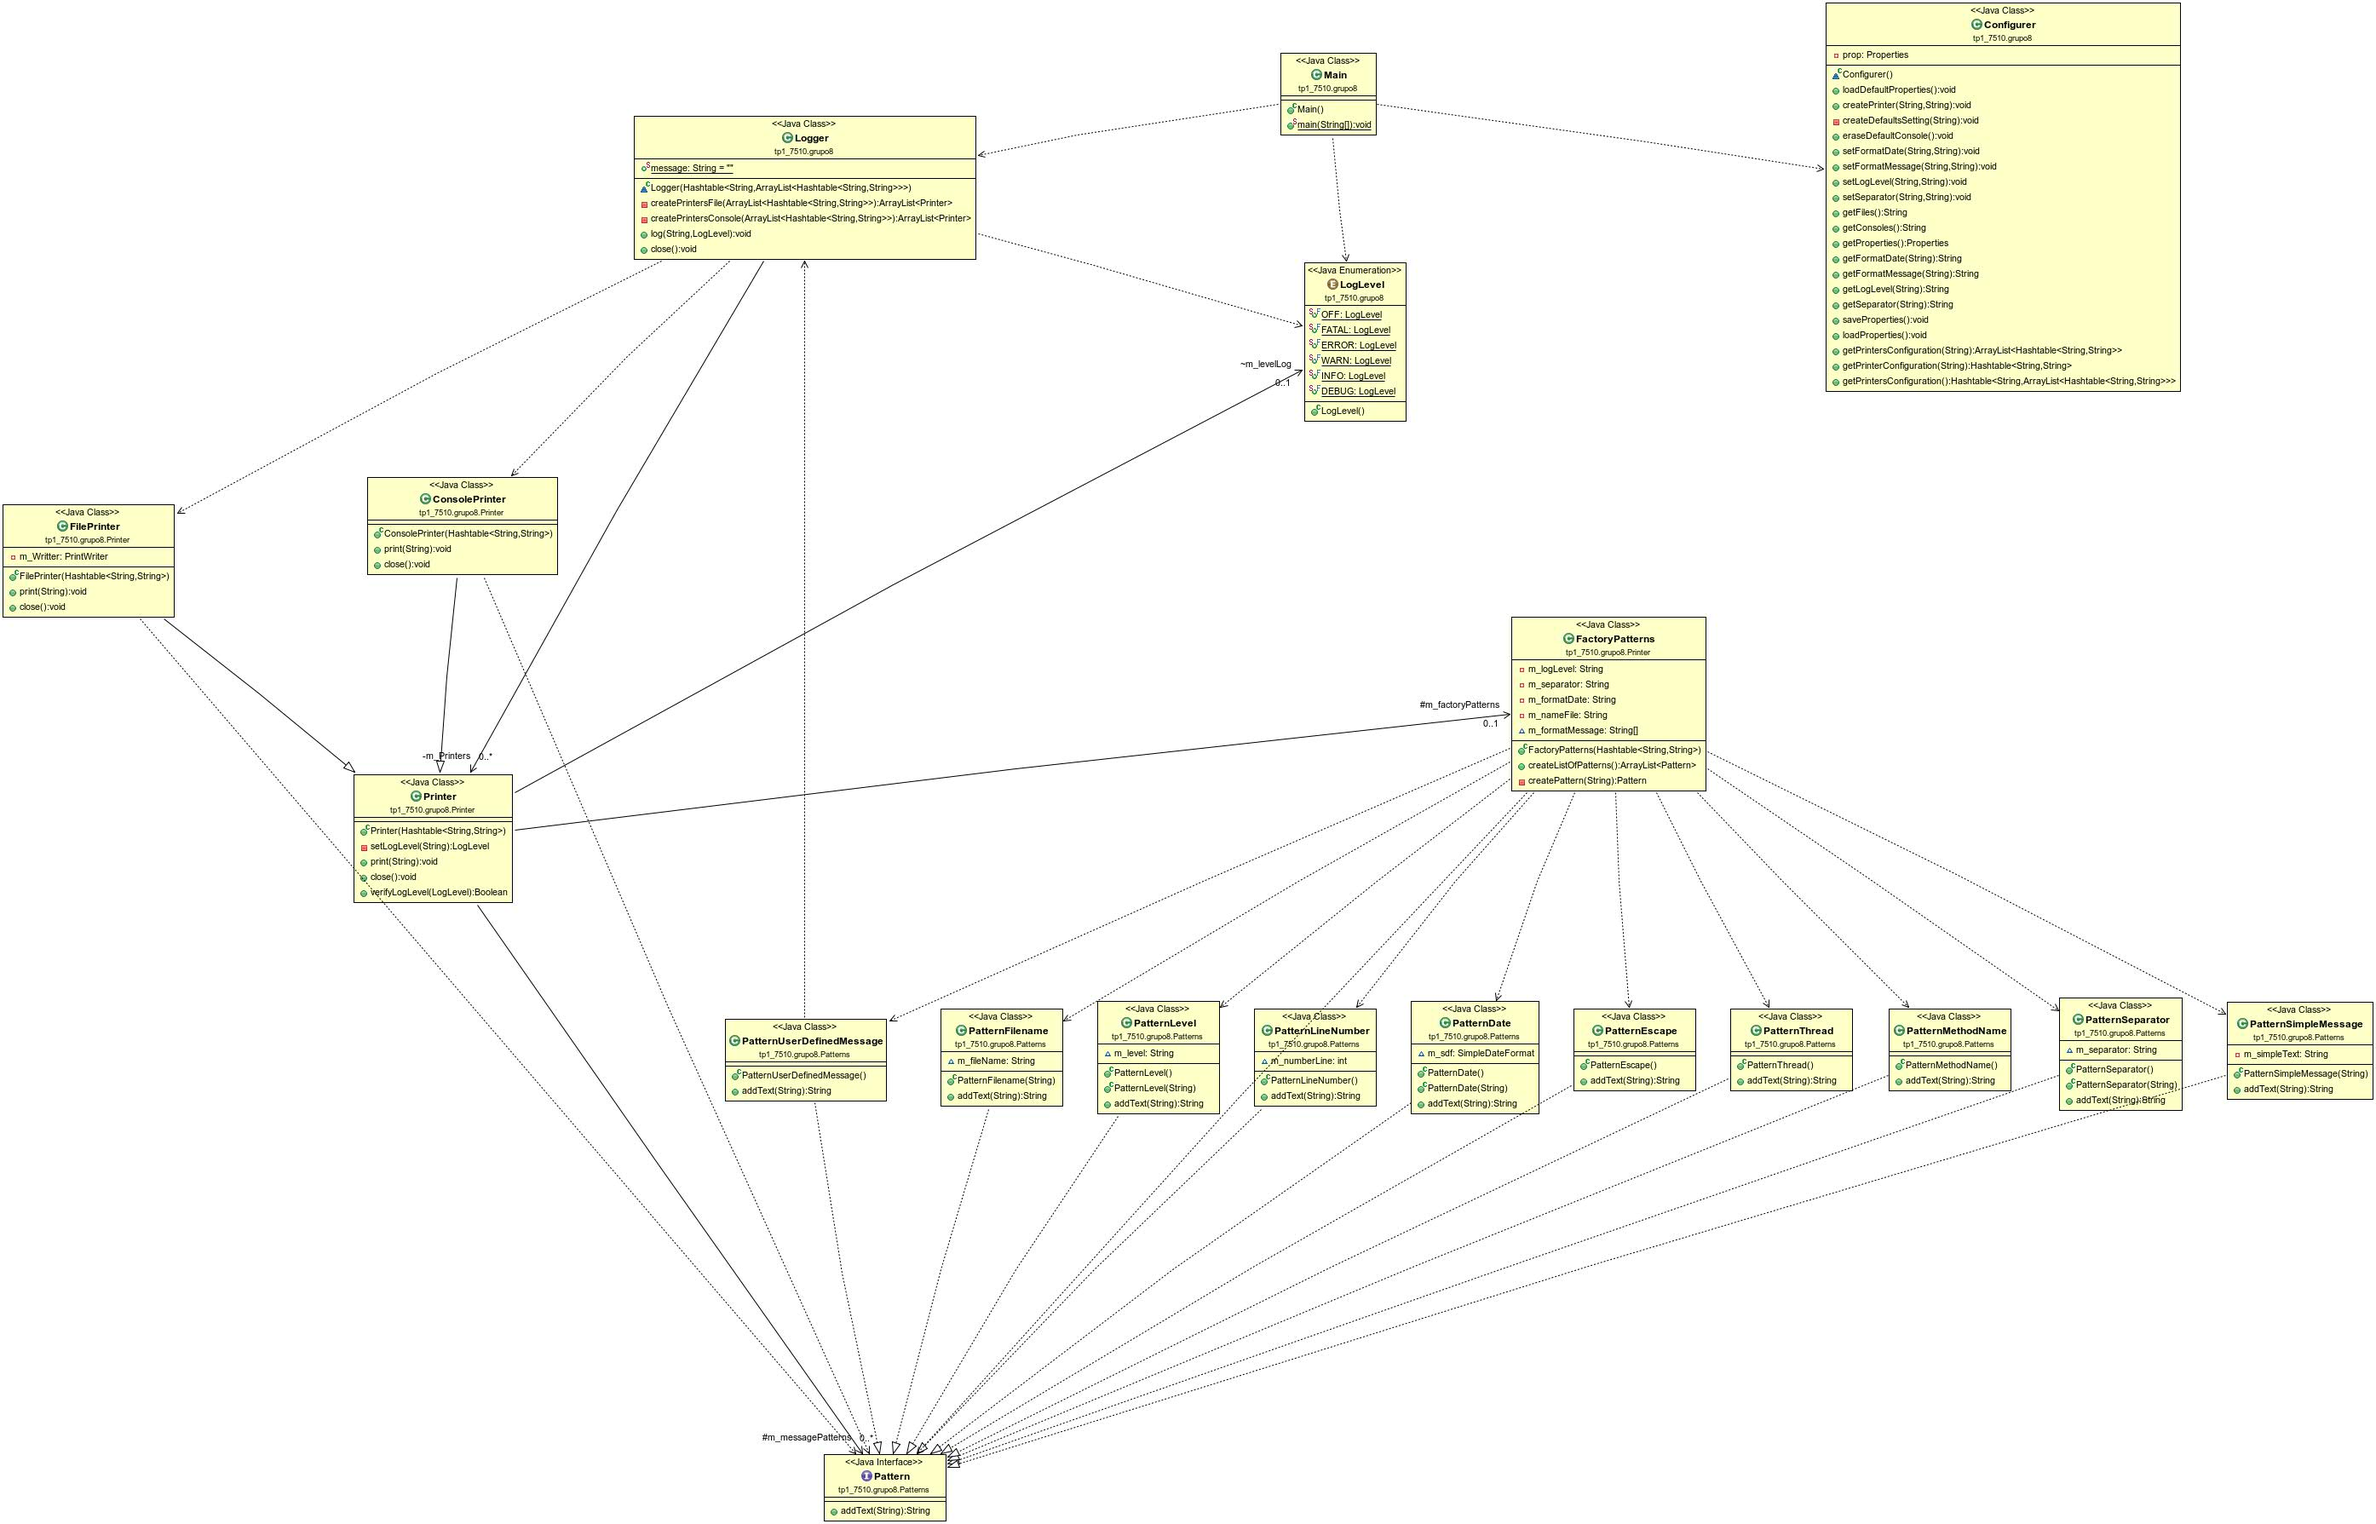
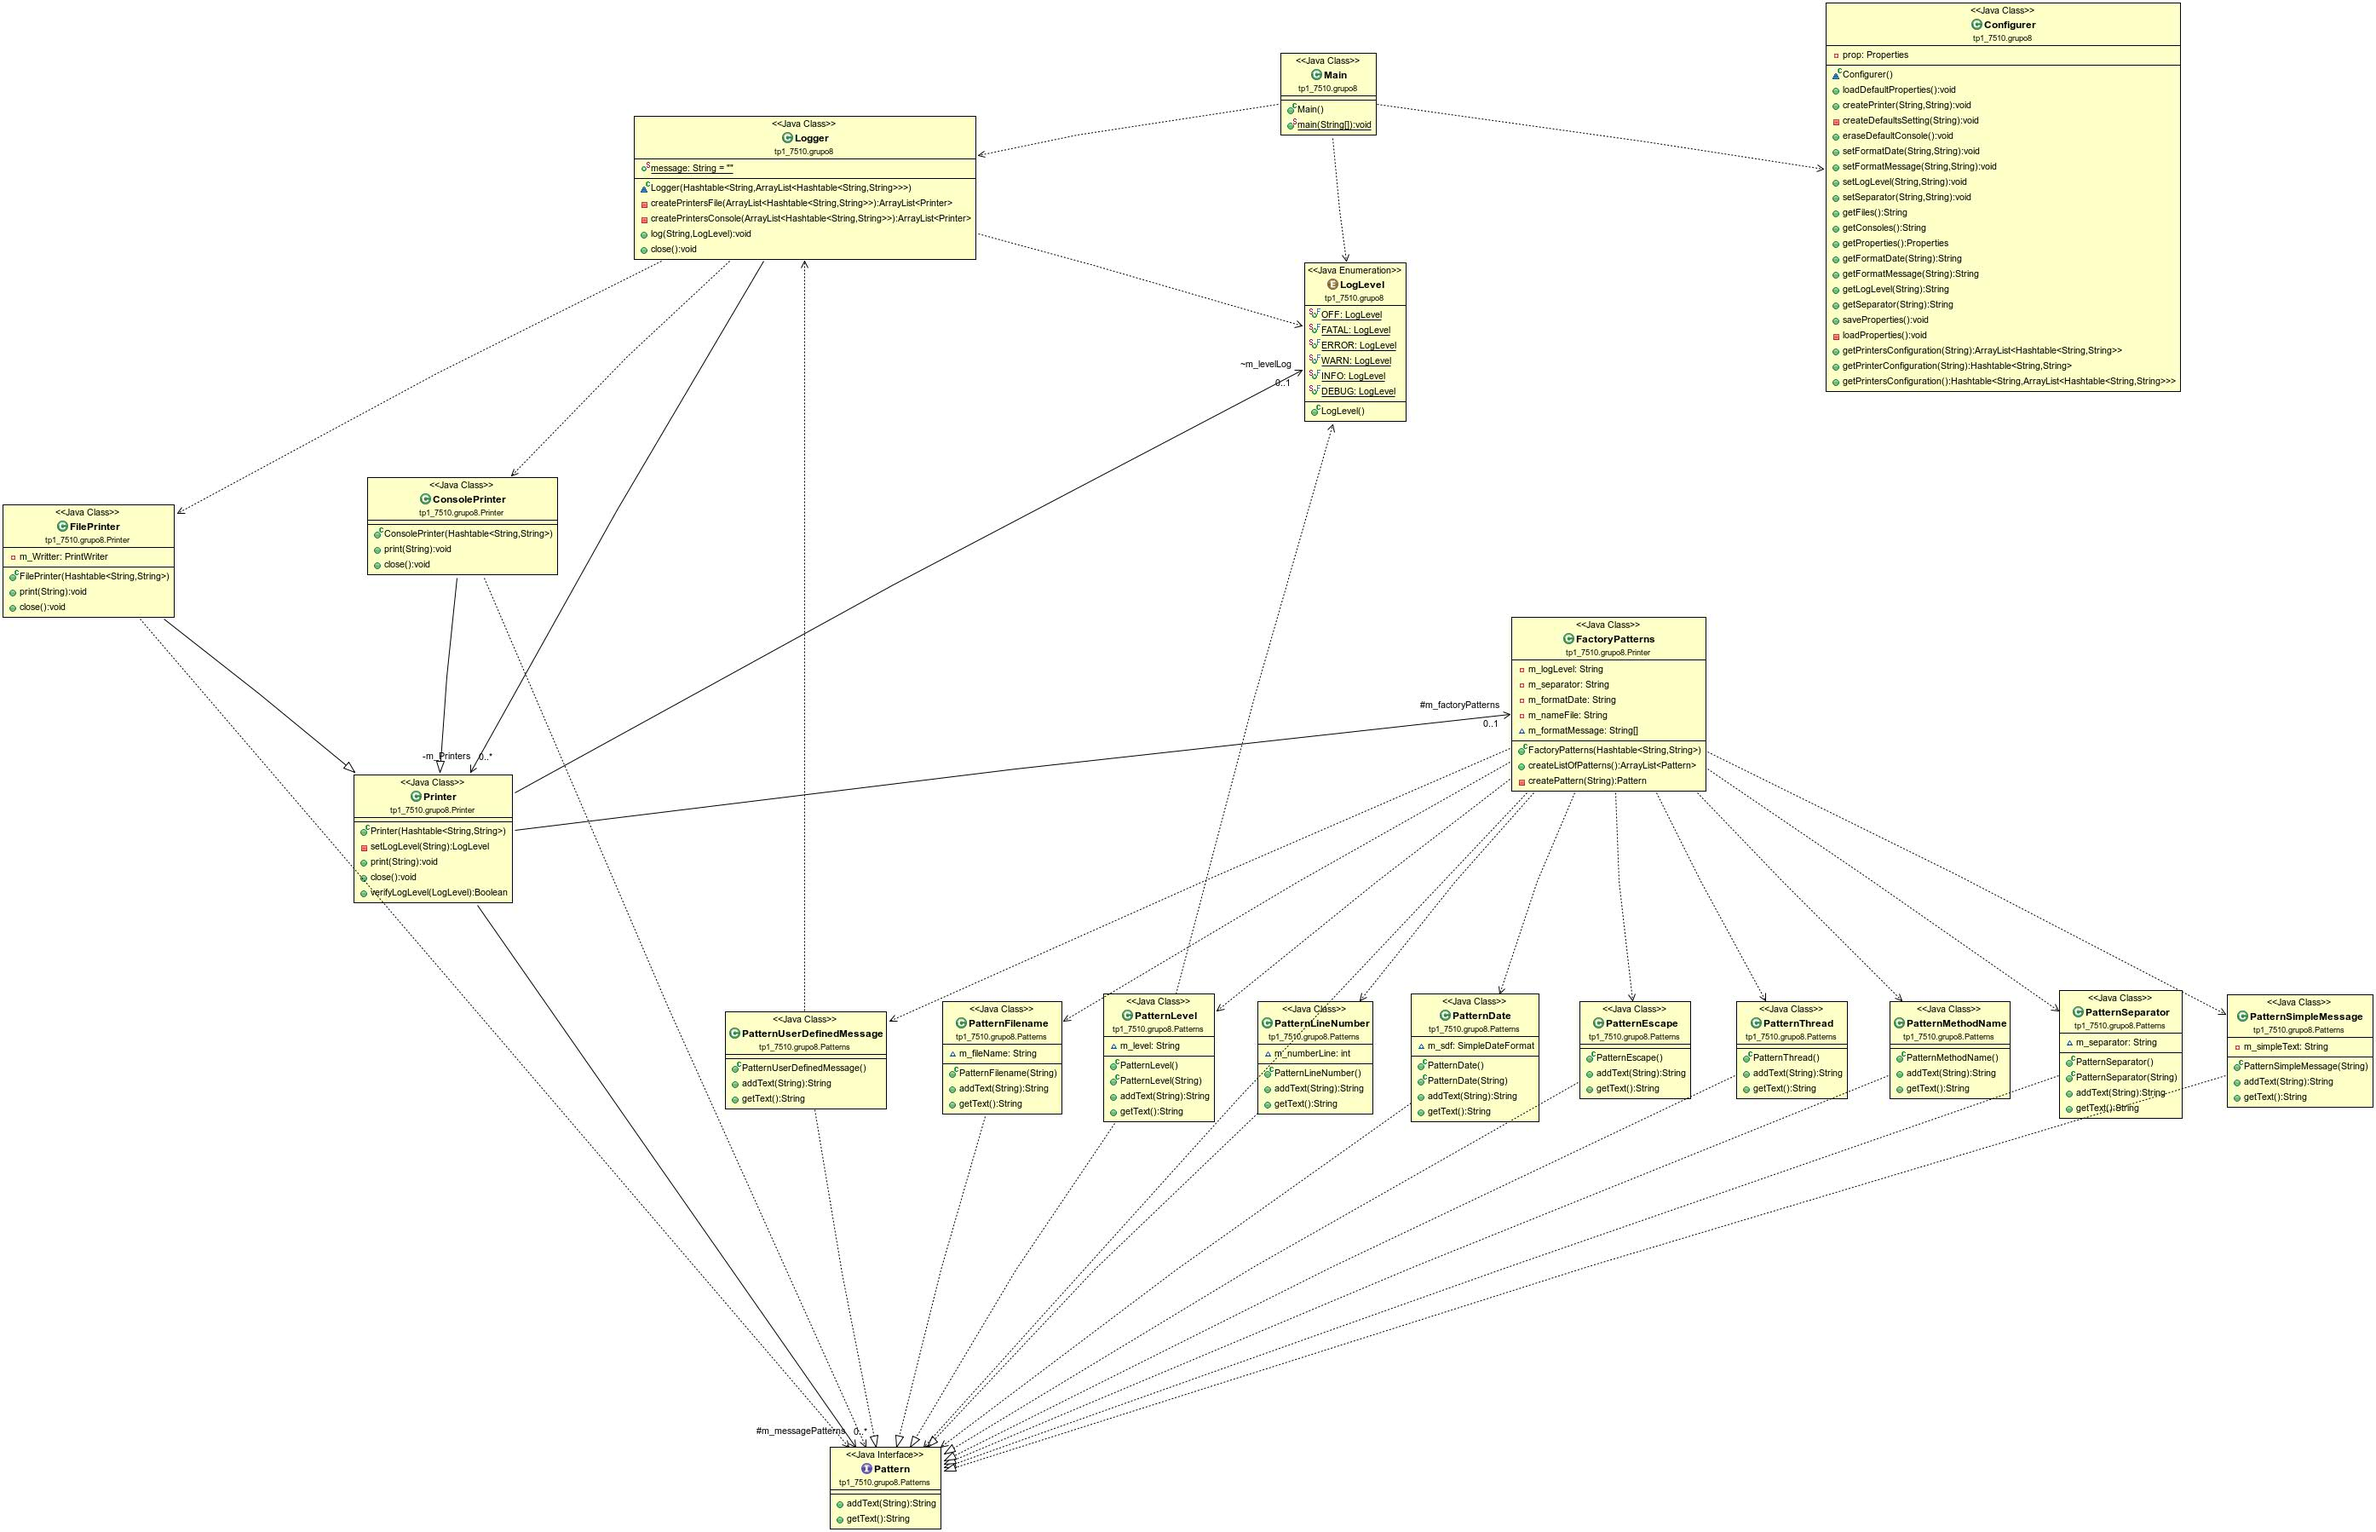
Agregado de test cases para la clase de patrones.

diff --git a/grupo8/src/test/java/tp1_7510/grupo8/TestPatterns.java b/grupo8/src/test/java/tp1_7510/grupo8/TestPatterns.java
@@ -20,48 +20,89 @@ import java.util.Date;
 public class TestPatterns extends TestCase {
 		
 	public void testPatternDate(){
+		
 		PatternDate patternDate	= new PatternDate();
+		PatternDate patternDateUD	= new PatternDate("10/10/2013");
 		String prueba = new SimpleDateFormat("dd/MM/yyyy").format(new Date());
 		
-		assertEquals(prueba.toString(), patternDate.addText(""));
-	
+		assertEquals(prueba.toString(), patternDate.getText());	
+		assertEquals("10/10/2013", patternDateUD.getText());
 	}
 	
 	public void testPatternEscape(){
-		PatternEscape patternEscape	= new PatternEscape();
 		
+		PatternEscape patternEscape	= new PatternEscape();
+				
+		assertEquals("%", patternEscape.addText(""));
+		assertEquals("%%", patternEscape.addText("%"));
 	}
 	
 	public void testPatternFilenamee(){
+		
 		PatternFilename patternFilename	= new PatternFilename("unArchivo.txt");
+		
+		assertEquals("unArchivo.txt", patternFilename.addText(""));
+		assertEquals("aaaunArchivo.txt", patternFilename.addText("aaa"));
 	}
 	
 	public void testPatternLevel(){
+		
 		PatternLevel patternLevel = new PatternLevel();
+		
+		assertEquals(LogLevel.DEBUG.toString(), patternLevel.addText(""));
 	}
 	
 	public void testPatternLineNumber(){
+		
 		PatternLineNumber patternLineNumber = new PatternLineNumber();
+		
+		assertEquals("linea 0", patternLineNumber.addText("linea "));
+		assertEquals("linea 1", patternLineNumber.addText("linea "));
+		assertEquals("linea 2", patternLineNumber.addText("linea "));		
 	}
 	
 	public void testPatternMethodName(){
+		
 		PatternMethodName patternMethodName	= new PatternMethodName();
+		
+		assertEquals("getText", patternMethodName.getText());		
 	}
 	
 	public void testPatternSeparator(){
+		
 		PatternSeparator patternSeparator = new PatternSeparator();
+		PatternSeparator patternSeparatorUD = new PatternSeparator("??");
+		
+		assertEquals("-", patternSeparator.getText());
+		assertEquals("??", patternSeparatorUD.getText());
+		assertEquals("=-", patternSeparator.addText("="));
+		assertEquals("AAA??", patternSeparatorUD.addText("AAA"));
 	}
 	
 	public void testPatternSimpleMessage(){
+		
 		PatternSimpleMessage patternSimpleMessage = new PatternSimpleMessage("Hola");
+		PatternSimpleMessage patternSimpleMessageUD = new PatternSimpleMessage();
+		
+		assertEquals("Hola", patternSimpleMessage.getText());
+		assertEquals("", patternSimpleMessageUD.getText());
 	}
 	
 	public void testPatternThread(){
+		
 		PatternThread patternThread = new PatternThread();
+		
+		assertEquals("main", patternThread.getText());
+		assertEquals("AAAAmain", patternThread.addText("AAAA"));
 	}
 	
 	public void testPatternUserDefinedMessage(){
+		
 		PatternUserDefinedMessage patternUserDefinedMessage = new PatternUserDefinedMessage();
+		
+		assertEquals("AAAA", patternUserDefinedMessage.addText("AAAA"));
+		
+		// TODO falta definir una prueba del log...
 	}
 
 }

diff --git a/grupo8/src/main/java/tp1_7510/grupo8/Logger.java b/grupo8/src/main/java/tp1_7510/grupo8/Logger.java
@@ -37,7 +37,7 @@ public class Logger {
 				printers.add( new FilePrinter(aFilePrinter) );
 			} catch (FileNotFoundException e) {
 				e.printStackTrace();
-				System.out.println("NO SE PUEDO CREAR ARHICO");
+				System.out.println("NO SE PUEDO CREAR ARCHIVO.");
 			}
 		}
 		
@@ -71,7 +71,7 @@ public class Logger {
         	if(aPrinter.verifyLogLevel(levelLog)){
         		aPrinter.print( aMessage );
         	}else{
-        		//IMPLEMENTAR ALGUN MENSAJE DE ERROR
+        		System.out.println("NO SE PUEDO ESCRIBIR EL LOG.");
         	}
         }
 	}

diff --git a/grupo8/src/main/java/tp1_7510/grupo8/Patterns/PatternSimpleMessage.java b/grupo8/src/main/java/tp1_7510/grupo8/Patterns/PatternSimpleMessage.java
@@ -4,13 +4,21 @@ public class PatternSimpleMessage implements Pattern {
 	
 	private String m_simpleText;
 	
+	public PatternSimpleMessage(){
+		m_simpleText = "";
+	}
+	
 	public PatternSimpleMessage(String text){
 		m_simpleText = text;
 	}
+	
 	@Override //imprime el mensaje, el mismo estomado de una variable estatico en la clase LOGGER
 	public String addText(String s) {
-		// TODO Auto-generated method stub
 		return s + m_simpleText;
+	}
+	@Override
+	public String getText() {		
+		return m_simpleText;
 	}
 
 }

diff --git a/grupo8/src/main/java/tp1_7510/grupo8/Patterns/PatternDate.java b/grupo8/src/main/java/tp1_7510/grupo8/Patterns/PatternDate.java
@@ -1,5 +1,6 @@
 package tp1_7510.grupo8.Patterns;
 
+import java.text.ParseException;
 import java.text.SimpleDateFormat;
 import java.util.Date;
 
@@ -19,6 +20,15 @@ public class PatternDate implements Pattern {
 	public String addText(String s) {
 		String fecha = m_sdf.format(new Date());
 		return s + fecha; 
+	}
+
+	@Override
+	public String getText() {
+		
+		Date d1 = new Date();
+		String fechaString = m_sdf.format(d1);
+		
+		return fechaString;
 	}
 
 }

diff --git a/grupo8/src/main/java/tp1_7510/grupo8/Patterns/PatternLineNumber.java b/grupo8/src/main/java/tp1_7510/grupo8/Patterns/PatternLineNumber.java
@@ -5,7 +5,7 @@ public class PatternLineNumber implements Pattern {
 	int m_numberLine;
 
 	public PatternLineNumber() {
-		m_numberLine=1;
+		m_numberLine=0;
 	}
 	
 	@Override //se imprime nro de linea de logueo
@@ -17,5 +17,12 @@ public class PatternLineNumber implements Pattern {
 		return message;
 	}
 
+	@Override
+	public String getText() {
+		// TODO Auto-generated method stub
+		return Integer.toString(m_numberLine);
+	}
+
+	
 
 }

diff --git a/grupo8/src/main/java/tp1_7510/grupo8/Patterns/PatternMethodName.java b/grupo8/src/main/java/tp1_7510/grupo8/Patterns/PatternMethodName.java
@@ -12,4 +12,9 @@ public class PatternMethodName implements Pattern {
 		return  s + new Object(){}.getClass().getEnclosingMethod().getName();
 	}
 
+	@Override
+	public String getText() {
+		return new Object(){}.getClass().getEnclosingMethod().getName();
+	}
+
 }

diff --git a/grupo8/src/main/java/tp1_7510/grupo8/Patterns/PatternThread.java b/grupo8/src/main/java/tp1_7510/grupo8/Patterns/PatternThread.java
@@ -7,4 +7,10 @@ public class PatternThread implements Pattern {
         return s + Thread.currentThread().getName();
 	}
 
+	@Override
+	public String getText() {
+		// TODO Auto-generated method stub
+		return Thread.currentThread().getName();
+	}
+
 }

diff --git a/grupo8/src/main/java/tp1_7510/grupo8/Patterns/PatternUserDefinedMessage.java b/grupo8/src/main/java/tp1_7510/grupo8/Patterns/PatternUserDefinedMessage.java
@@ -15,4 +15,9 @@ public class PatternUserDefinedMessage implements Pattern {
 		return s + Logger.message;
 	}
 
+	@Override
+	public String getText() {
+		return Logger.message;
+	}
+
 }

diff --git a/grupo8/src/main/java/tp1_7510/grupo8/Patterns/PatternSeparator.java b/grupo8/src/main/java/tp1_7510/grupo8/Patterns/PatternSeparator.java
@@ -17,4 +17,9 @@ public class PatternSeparator implements Pattern {
 		return s + m_separator;
 	}
 
+	@Override
+	public String getText() {
+		return m_separator;
+	}
+
 }

diff --git a/grupo8/src/main/java/tp1_7510/grupo8/Patterns/PatternFilename.java b/grupo8/src/main/java/tp1_7510/grupo8/Patterns/PatternFilename.java
@@ -13,4 +13,9 @@ public class PatternFilename implements Pattern {
 		return  s + m_fileName;
 	}
 
+	@Override
+	public String getText() {
+		return m_fileName;
+	}
+
 }

diff --git a/grupo8/src/main/java/tp1_7510/grupo8/Patterns/PatternLevel.java b/grupo8/src/main/java/tp1_7510/grupo8/Patterns/PatternLevel.java
@@ -19,4 +19,9 @@ public class PatternLevel implements Pattern {
 		return s + m_level;
 	}
 
+	@Override
+	public String getText() {		
+		return m_level;
+	}
+
 }

diff --git a/grupo8/src/main/java/tp1_7510/grupo8/Patterns/PatternEscape.java b/grupo8/src/main/java/tp1_7510/grupo8/Patterns/PatternEscape.java
@@ -11,4 +11,9 @@ public class PatternEscape implements Pattern {
 		return s + "%";
 	}
 
+	@Override
+	public String getText() {
+		return "%";
+	}
+
 }
